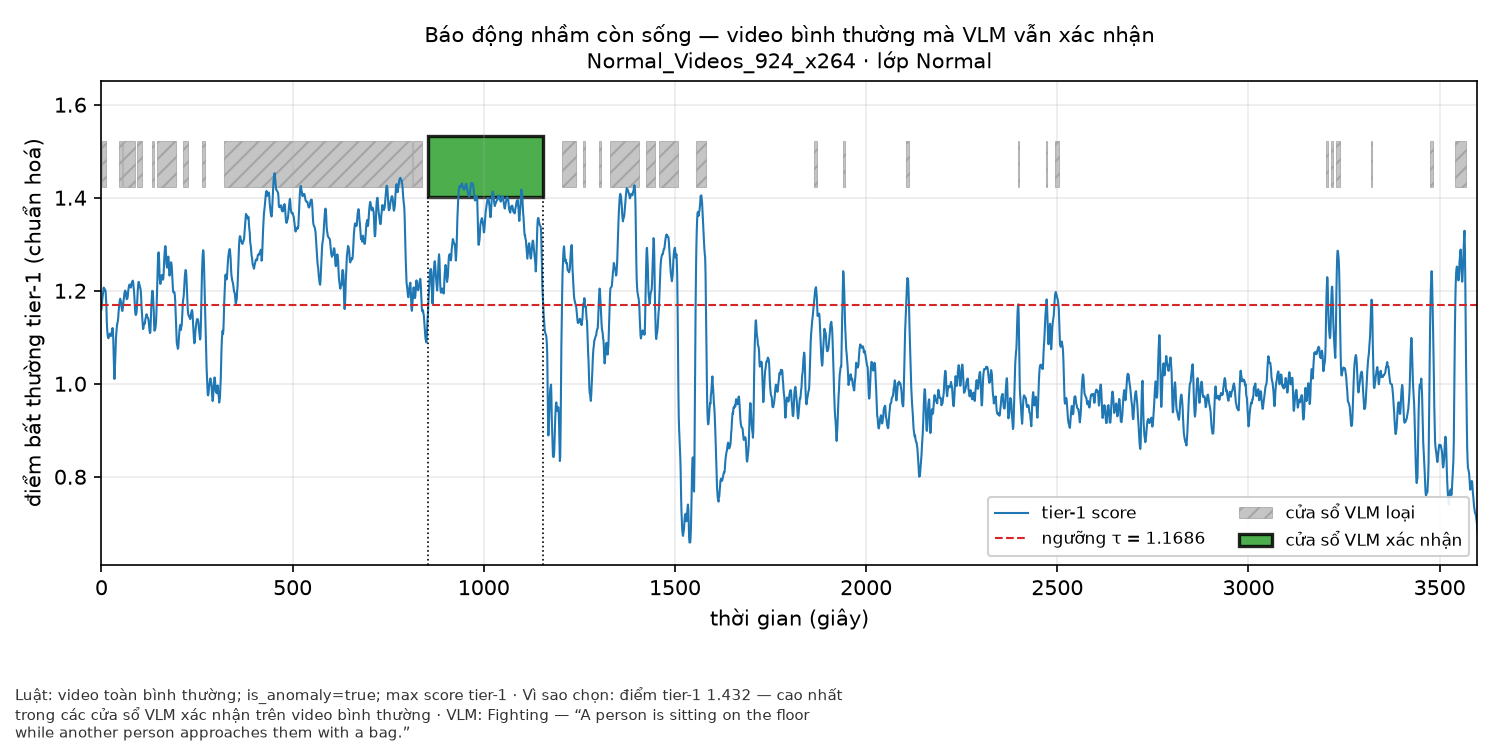
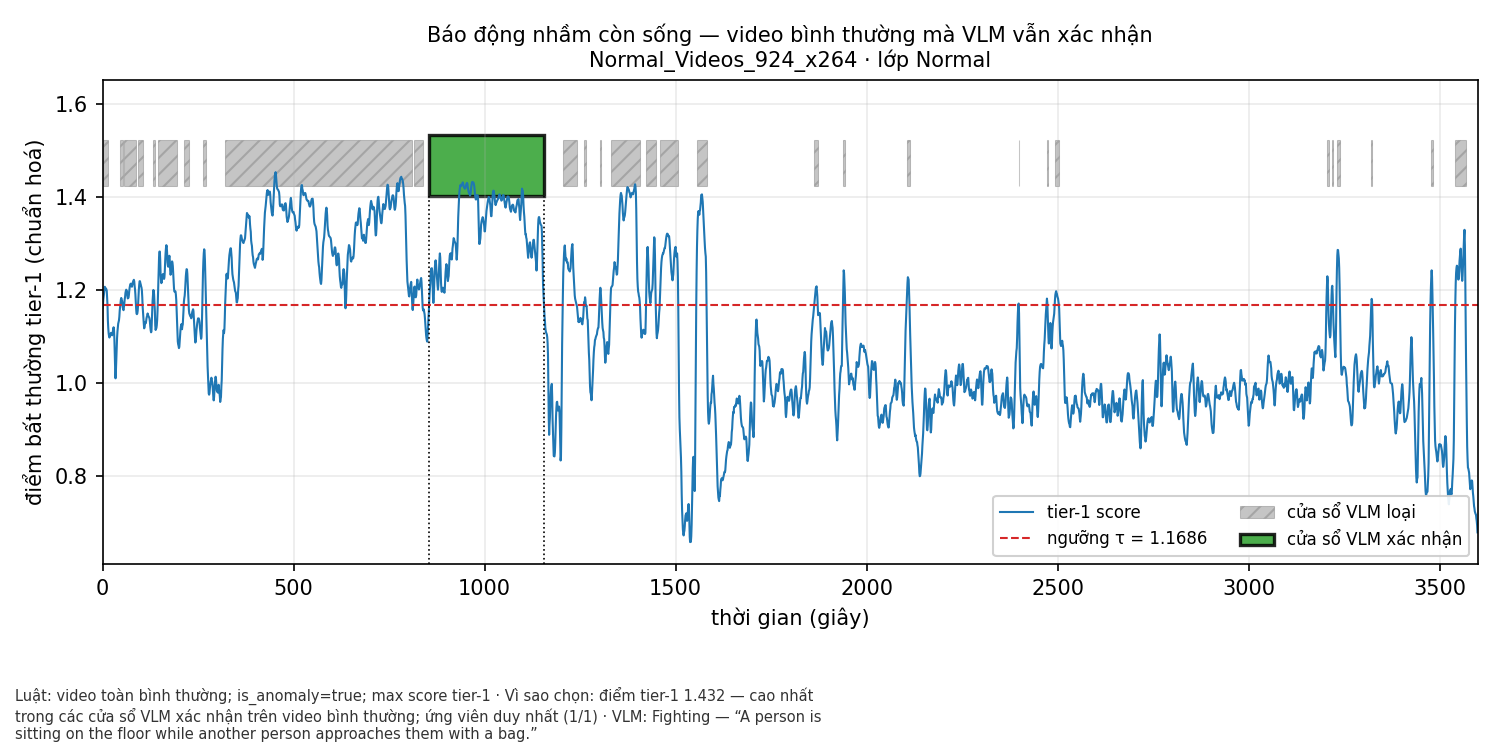
fix(c7f): state candidate-pool size in every selection reason, correct 62->64 and the 42 s claim
Review of #42 against results/ablation_A6.json:
- note said 'most overlap among 62 confirmed windows'; real pool is 64 (62 = incidents_detected)
- figure 3 'highest score' was a pool of exactly 1; reason now says so (1/1)
- every reason now prints its real pool size (64/123/1/50/21), computed from the candidate list
- note: Shooting021 clip is ~42 s but GT only ~5 s; 21 vs 22 lost-TP windows explained
- 2 new tests; the 5 picks are unchanged (selection.json differs only in 'reason')

diff --git a/tests/vad_suite/test_make_figures.py b/tests/vad_suite/test_make_figures.py
@@ -248,3 +248,29 @@ def test_plot_writes_a_png_and_selection_json(tmp_path):
     assert payload["selection"][0]["category"] == "confirmed_hit"
     assert "removed_false_alarm" in payload["empty_categories"]
     assert payload["figures"] == [pngs[0].name]
+
+
+def test_reason_states_the_real_pool_size_and_a_pool_of_one_is_said_so():
+    # hình 3 của dữ liệu thật chỉ có MỘT ứng viên: câu chọn không được nghe như "cao nhất trong nhiều"
+    vid = "Normal_Videos_003_x264"
+    only = _run(vid, [_window(vid, 0, 10, 3.2)], [_verify(True)])
+    pick = _by_category(select_cases({vid: only}, {vid: _ann(vid, "Normal", ())})[0])["surviving_false_alarm"]
+    assert "ứng viên duy nhất (1/1)" in pick.reason
+
+    # nhóm 2 ứng viên: ghi đúng 2 (không phải tổng số cửa sổ/ video nào khác)
+    vid2 = "Normal_Videos_004_x264"
+    run2 = _run(vid2, [_window(vid2, 0, 10, 3.2), _window(vid2, 20, 30, 2.0)], [_verify(True), _verify(True)])
+    pick2 = _by_category(select_cases({vid2: run2}, {vid2: _ann(vid2, "Normal", ())})[0])["surviving_false_alarm"]
+    assert "1 trong 2 ứng viên" in pick2.reason
+    assert pick2.window_index == 0
+
+
+def test_confirmed_hit_pool_counts_only_confirmed_windows_that_overlap_gt():
+    # 64 chứ không phải 62 ở dữ liệu thật: nhóm = cửa sổ xác nhận + video bất thường + giao GT > 0
+    vid = "Fighting002_x264"
+    run = _run(vid, [_window(vid, 0, 10, 2.0), _window(vid, 20, 60, 1.9),
+                     _window(vid, 100, 120, 5.0), _window(vid, 200, 210, 4.0)],
+               [_verify(True), _verify(True), _verify(True), _verify(False)])
+    # GT 0..60 s: 2 cửa sổ xác nhận giao, 1 xác nhận nhưng ngoài GT, 1 bị loại
+    pick = _by_category(select_cases({vid: run}, {vid: _ann(vid, "Fighting", [(0, 1800)])})[0])["confirmed_hit"]
+    assert "1 trong 2 ứng viên" in pick.reason

diff --git a/scripts/make_figures.py b/scripts/make_figures.py
@@ -139,6 +139,12 @@ def select_cases(runs: Mapping[str, RunResult],
     empty: list[str] = []
 
     def best(candidates: list[Pick], category: str) -> None:
+        # Nhóm ứng viên ghi thẳng vào câu chọn: "cao nhất trong N" nói rõ N là bao nhiêu, và N = 1
+        # thì không còn nghe như một cuộc thi (bản đầu cho hình 3 chỉ có đúng một ứng viên).
+        if candidates and category != "missed_incident":      # hình 4 đã có "trong N video" riêng
+            size = len(candidates)
+            pool = "ứng viên duy nhất (1/1)" if size == 1 else f"1 trong {size} ứng viên"
+            candidates = [replace(c, reason=f"{c.reason}; {pool}") for c in candidates]
         if not candidates:
             empty.append(category)
             picks.append(Pick(
